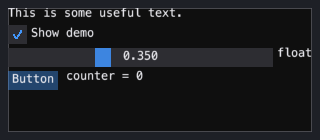
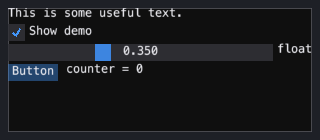
Denser defaults: frame padding (4, 2) and item spacing (8, 3), one source for Style and LayoutStyle
Layout tests keep the reference's constants; the knob golden and the
README screenshot are rebaked.

Changed region(s): [[0.0, 0.1714, 0.9688, 0.6571]]

diff --git a/emtk/layout.py b/emtk/layout.py
@@ -46,7 +46,9 @@ Where the numbers come from
 ``FramePadding = (4, 3)``, ``IndentSpacing = 21`` (documented there as
 "generally ``FontSize + FramePadding.x * 2``", which is how it is derived here
 so it tracks the chrome's font rather than the reference's 13-pixel one), and
-``SeparatorSize = 1``. The advance itself is ``ItemSize``:
+``SeparatorSize = 1``. emtk's own defaults are denser in two of them
+(:data:`FRAME_PADDING` ``(4, 2)``, :data:`ITEM_SPACING` ``(8, 3)``); the
+arithmetic is the reference's. The advance itself is ``ItemSize``:
 
 .. code-block:: text
 
@@ -65,12 +67,22 @@ from dataclasses import dataclass
 from .painter import Painter
 
 __all__ = [
+    "FRAME_PADDING",
+    "ITEM_SPACING",
     "LayoutStyle",
     "Layout",
 ]
 
 #: A rectangle, in the order every control's ``draw`` takes it.
 Rect = tuple[float, float, float, float]
+
+#: emtk's default metrics, shared by :class:`LayoutStyle` and
+#: :class:`emtk.im_core.Style` so the two cannot drift. Denser than the
+#: reference's ``FramePadding = (4, 3)`` / ``ItemSpacing = (8, 4)``: a field is
+#: its text line plus 2 px above and below (still a comfortable hit target),
+#: and lines are 3 px apart -- panels full of controls show more of them.
+FRAME_PADDING = (4.0, 2.0)
+ITEM_SPACING = (8.0, 3.0)
 
 
 def _trunc(value: float) -> float:
@@ -93,18 +105,18 @@ def _trunc(value: float) -> float:
 class LayoutStyle:
     """The spacing constants a :class:`Layout` lays out with.
 
-    The defaults are the reference implementation's ``ImGuiStyle``, in pixels.
+    The defaults are :data:`FRAME_PADDING` and :data:`ITEM_SPACING`, in pixels.
 
     Attributes
     ----------
     item_spacing_x, item_spacing_y : float
-        Gap between two items on a line, and between two lines. The reference's
-        ``ItemSpacing = (8, 4)``.
+        Gap between two items on a line, and between two lines:
+        :data:`ITEM_SPACING` (the reference's ``ItemSpacing`` is ``(8, 4)``).
     frame_padding_x, frame_padding_y : float
         Padding inside a framed control. Only the vertical half is used for
         layout -- it is what makes a row taller than its text -- but both are
         kept because the horizontal half is what ``indent_spacing`` derives
-        from. The reference's ``FramePadding = (4, 3)``.
+        from. :data:`FRAME_PADDING` (the reference's is ``(4, 3)``).
     indent_spacing : float or None
         How far :meth:`Layout.indent` moves the left margin. ``None`` derives
         it as ``line_height + frame_padding_x * 2``, which is what the
@@ -114,10 +126,10 @@ class LayoutStyle:
         reference's ``SeparatorSize = 1``.
     """
 
-    item_spacing_x: float = 8.0
-    item_spacing_y: float = 4.0
-    frame_padding_x: float = 4.0
-    frame_padding_y: float = 3.0
+    item_spacing_x: float = ITEM_SPACING[0]
+    item_spacing_y: float = ITEM_SPACING[1]
+    frame_padding_x: float = FRAME_PADDING[0]
+    frame_padding_y: float = FRAME_PADDING[1]
     indent_spacing: float | None = None
     separator_size: float = 1.0
 
@@ -186,11 +198,11 @@ class Layout:
     ...     def line_height(self): return 12.0
     >>> layout = Layout(P(), 10.0, 20.0, 200.0, 300.0)
     >>> layout.row()
-    (10.0, 20.0, 200.0, 18.0)
+    (10.0, 20.0, 200.0, 16.0)
     >>> layout.row()
-    (10.0, 42.0, 200.0, 18.0)
+    (10.0, 39.0, 200.0, 16.0)
     >>> layout.content_height()
-    40.0
+    35.0
     """
 
     def __init__(

diff --git a/tests/test_ui_layout.py b/tests/test_ui_layout.py
@@ -13,6 +13,10 @@ The box is ``(10, 20, 200, 300)`` throughout and the painter measures a line at
 * a default row is ``12 + 3 * 2 = 18`` tall,
 * rows are ``4`` apart and items on a line ``8`` apart,
 * one indent step is ``12 + 4 * 2 = 20``.
+
+emtk's own defaults are denser (:data:`emtk.layout.FRAME_PADDING`,
+:data:`~emtk.layout.ITEM_SPACING`), so these tests lay out with the
+reference's constants, :data:`REFERENCE`, and one test checks the defaults.
 """
 
 from __future__ import annotations
@@ -59,12 +63,15 @@ class RecordingPainter:
 
 
 BOX = (10.0, 20.0, 200.0, 300.0)
+#: The reference's ``ItemSpacing = (8, 4)`` and ``FramePadding = (4, 3)``.
+REFERENCE = LayoutStyle(item_spacing_x=8.0, item_spacing_y=4.0,
+                        frame_padding_x=4.0, frame_padding_y=3.0)
 
 
 def make() -> tuple[RecordingPainter, Layout]:
     """A painter and a layout over :data:`BOX`."""
     painter = RecordingPainter()
-    return painter, Layout(painter, *BOX)
+    return painter, Layout(painter, *BOX, style=REFERENCE)
 
 
 # ---------------------------------------------------------------------- #
@@ -435,7 +442,7 @@ def test_content_height_is_the_sum_of_what_was_laid_out():
 def test_content_height_does_not_count_the_gap_after_the_last_row():
     """A panel its rows exactly fill must not grow a scrollbar for nothing."""
     painter = RecordingPainter()
-    layout = Layout(painter, 0.0, 0.0, 100.0, 40.0)
+    layout = Layout(painter, 0.0, 0.0, 100.0, 40.0, REFERENCE)
     layout.row()
     layout.row()
     assert layout.content_height() == 40.0
@@ -574,3 +581,16 @@ def test_an_auto_resizing_window_still_sizes_to_its_content():
             emtk.end()
     assert seen[0] == (900, 620), "the first frame cannot know the content yet"
     assert all(size[0] < 100 for size in seen[1:]), seen
+
+
+def test_emtks_defaults_are_a_text_line_plus_2_px_and_3_px_apart():
+    """emtk's own density: a field is its line plus 2 px above and below, and
+    the next line starts 3 px under it -- the same numbers the ``Style`` has."""
+    from emtk import Style
+    from emtk.layout import FRAME_PADDING, ITEM_SPACING
+
+    layout = Layout(RecordingPainter(), *BOX)
+    assert layout.row() == (10.0, 20.0, 200.0, 16.0)
+    assert layout.row() == (10.0, 39.0, 200.0, 16.0)
+    assert Style().frame_padding == FRAME_PADDING == (4.0, 2.0)
+    assert Style().item_spacing == ITEM_SPACING == (8.0, 3.0)

diff --git a/emtk/im_core.py b/emtk/im_core.py
@@ -36,7 +36,7 @@ from typing import Any, Callable, Optional
 from .control import Control
 from .drawlist import DrawList
 from .events import LEFT_BUTTON, MIDDLE_BUTTON, RIGHT_BUTTON
-from .layout import Layout, LayoutStyle
+from .layout import FRAME_PADDING, ITEM_SPACING, Layout, LayoutStyle
 from .painter import Painter
 from .style import hit
 
@@ -331,8 +331,9 @@ class Style:
     seven coloured buttons needs.
     """
 
-    frame_padding: tuple[float, float] = (4.0, 3.0)
-    item_spacing: tuple[float, float] = (8.0, 4.0)
+    #: The same defaults :class:`~emtk.layout.LayoutStyle` lays rows out with.
+    frame_padding: tuple[float, float] = FRAME_PADDING
+    item_spacing: tuple[float, float] = ITEM_SPACING
     item_inner_spacing: tuple[float, float] = (4.0, 4.0)
     frame_rounding: float = 0.0
     #: ``FrameBorderSize``: an outline in ``Col.BORDER`` around buttons, check

diff --git a/tests/test_view_form.py b/tests/test_view_form.py
@@ -254,7 +254,8 @@ def test_a_fold_header_is_compact_left_aligned_and_its_buttons_sit_close():
     fold = driver.state.rects["Axes.fold"]
     field = driver.state.rects["restarts"]
     assert fold[3] < field[3]
-    assert fold[3] == line + 2 * 2.0                     # a text line + 2 x 2 px
+    pad_y = max(emtk.Style().frame_padding[1] - 1.0, 1.0)
+    assert fold[3] == line + 2 * pad_y                   # a text line + a little padding
     tx = next(t[0] for t in driver.painter.texts if t[5] == "Axes")
     assert tx < fold[0] + 30.0                           # left-aligned, not centred
     ok, cancel = driver.state.rects["ok"], driver.state.rects["cancel"]

diff --git a/tests/test_nodes.py b/tests/test_nodes.py
@@ -330,8 +330,8 @@ def test_content_scaling_restores_the_style_and_the_font():
     _frame(build, io=io, storage=storage, painter=painter)
 
     frame_padding, item_spacing, line_height, scale = seen[-1]
-    assert frame_padding == (4.0, 3.0), "im style vars leaked past the node"
-    assert item_spacing == (8.0, 4.0)
+    assert frame_padding == emtk.Style().frame_padding, "im style vars leaked past the node"
+    assert item_spacing == emtk.Style().item_spacing
     assert line_height == RecordingPainter.LINE_H, "font scale leaked"
     assert scale == 1.0, "content scale reported outside scope"
 

diff --git a/emtk/__init__.py b/emtk/__init__.py
@@ -267,6 +267,7 @@ _NAME_TO_MODULE: dict[str, str] = {
     "FIXED_GLYPH_W": "testing",
     "FIXED_LINE_H": "testing",
     "FRAME_PAD": "widgets.combo",
+    "FRAME_PADDING": "layout",
     "FocusedFlags": "im",
     "GRAB_MIN_SIZE": "widgets.sliders",
     "GRAB_PADDING": "widgets.sliders",
@@ -275,6 +276,7 @@ _NAME_TO_MODULE: dict[str, str] = {
     "HoveredFlags": "im",
     "INNER_SPACING": "widgets.combo",
     "IO": "im",
+    "ITEM_SPACING": "layout",
     "ImWidget": "im",
     "InputDouble": "widgets.inputs",
     "InputFloat": "widgets.inputs",

diff --git a/tests/test_overlays.py b/tests/test_overlays.py
@@ -388,7 +388,7 @@ def test_the_list_stays_anchored_while_it_filters():
     form.key(KEY_ESCAPE)
     assert panel.panel_rect == pytest.approx(opened), "cleared, it is as it opened"
     # A list flipped above its field keeps its top, too.
-    flipped = Form(Model(TAUS), _spec(above=12), size=(400.0, 420.0))
+    flipped = Form(Model(TAUS), _spec(above=14), size=(400.0, 420.0))
     field = flipped.state.rects["pick"]
     panel = flipped.open()
     opened = panel.panel_rect
